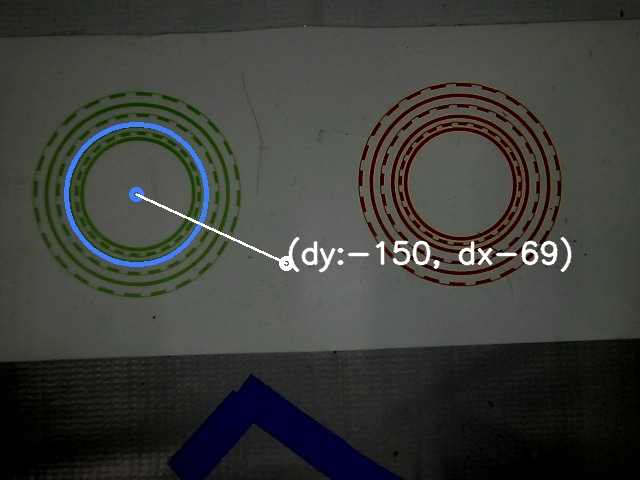
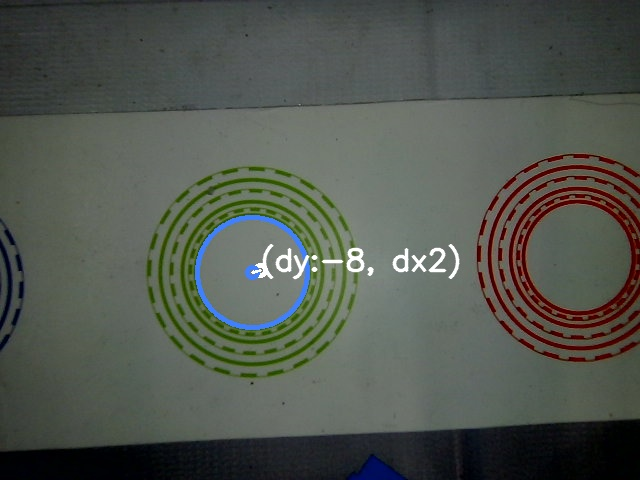
wt ok

diff --git a/app/tasks/Task3PutOnRing3.py b/app/tasks/Task3PutOnRing3.py
@@ -33,12 +33,12 @@ def Task3_PutOnRing3(cameraPath: str,
     from utils.VisionUtils import cv2AddChineseText
     img = cv2AddChineseText(blank, f"去粗加工区", (384, 200), (0, 0, 0), 45)
 
-    while True: # 等待到达三色环区
-        queue.put(img)
-        response = recv_data()
-        if response == xmlReadCommand("arrive", 0):
-            print("cjgq:", response)
-            break
+    # while True: # 等待到达三色环区
+    #     queue.put(img)
+    #     response = recv_data()
+    #     if response == xmlReadCommand("arrive", 0):
+    #         print("cjgq:", response)
+    #         break
 
     send_dataDMA(xmlReadCommand("prepareCatch", 1), 0, 0)
     import time
@@ -87,19 +87,23 @@ def Task3_PutOnRing3(cameraPath: str,
     # 底下那个靠近中间的是绿色色环，如果OPS9没出错
     f = 2
     while True:
-        # 先锁定中间那个圆环
-        ret, frame = cap.read()
-        if isflip:
-            frame = cv2.flip(frame, -1)
-        frame = useRateMWB(frame, RateTuple)
+        # ret, frame = cap.read()
+        # if isflip:
+        #     frame = cv2.flip(frame, -1)
+        # frame = useRateMWB(frame, RateTuple)
         n = 10
         circlesList = []
-        while n:
+        circles = []
+        while n > 0:
+            ret, frame = cap.read()
+            if isflip:
+                frame = cv2.flip(frame, -1)
             circles = getCircleCenter(frame) # 获取画面中的圆形
+            # centerCircle = ()
             if len(circles) != 0:
                 centerCircle = sorted(circles, key=lambda circle: # 离光心最近的圆形
                              pow(circle[0] - XCenter, 2) + pow(circle[1] - YCenter, 2))[0]
-            circlesList.append(tuple([centerCircle[0], centerCircle[1]]))
+                circlesList.append(tuple([centerCircle[0], centerCircle[1]]))
             n -= 1
         
         from utils.VisionUtils import getKmeansCenter
@@ -114,14 +118,14 @@ def Task3_PutOnRing3(cameraPath: str,
         cv2.line(frame, (x, y), (XCenter, YCenter), (255, 255, 255), 2)
         dy = x - XCenter
         dx = y - YCenter
-        if -5 < dx < 5:
-            dx = 0
-        if -5 < dy < 5:
-            dy = 0
+        # if -2 < dx < 2:
+        #     dx = 0
+        # if -2 < dy < 2:
+        #     dy = 0
         # 惯性修正
-        rate = 0.646
+        # rate = 0.646
         if f > 0:
-            dxr = int(distanceRate * dx * rate)
+            dxr = int(distanceRate * dx)
             dyr = int(distanceRate * dy)
             print("dy, dx:", dy, dx)
             cv2.putText(frame, f"(dy:{dy}, dx{dx})", (XCenter, YCenter), cv2.FONT_HERSHEY_SIMPLEX, 1, (255, 255, 255), 2, cv2.LINE_AA)
@@ -130,9 +134,9 @@ def Task3_PutOnRing3(cameraPath: str,
             cv2.imwrite(f"/home/jetson/GongXun2/app/debug/ring{f}_.jpg", frame)
             f -= 1
             time.sleep(2)
-        else:
-            send_dataDMA("0000", dx, dy)
-            queue.put(frame)
+        # else:
+        #     send_dataDMA("0000", dx, dy)
+        #     queue.put(frame)
         if f == 0:
             break
         # 待偏差归零，停止投送画面
@@ -141,19 +145,18 @@ def Task3_PutOnRing3(cameraPath: str,
         #     # send_dataDMA(xmlReadCommand("calibrOk", 1), 0, 0)
         #     queue.put(np.ones((480, 640, 3), np.uint8) * 255)
         #     break
-    else:
-        queue.put(frame)
+
 
     # 微调完等3s
-    time.sleep(2)
-    n = 10
-    while n > 0:
-        ret, frame = cap.read()
-        n -= 1
-    cv2.circle(frame, (XCenter, YCenter), 5, (0, 0, 0), 3)
-    queue.put(frame)
+    # time.sleep(2)
+    # n = 10
+    # while n > 0:
+    ret, frame_ = cap.read()
+        # n -= 1
+    cv2.circle(frame_, (XCenter, YCenter), 5, (0, 0, 0), 3)
+    queue.put(frame_)
     time.sleep(3)
-    cv2.imwrite("/home/jetson/GongXun2/app/debug/ring3.jpg", frame)
+    cv2.imwrite("/home/jetson/GongXun2/app/debug/ring3.jpg", frame_)
     cap.release()
 
 

diff --git a/app/main.py b/app/main.py
@@ -55,16 +55,16 @@ def process_task(queue: Queue, lock: Lock, continue_: Value):
     global camera1_path, camera2_path, qr_result, \
         sequence
 
-    # 执行任务一 扫码
-    from tasks.Task1QRCode import Task1_QRCode
-    Task1_QRCode(camera1_path, image_queue, sequence, qr_result, lock)
-    del Task1_QRCode
-    # sequence = [1, 2, 3, 1, 2, 3]
+    # # 执行任务一 扫码
+    # from tasks.Task1QRCode import Task1_QRCode
+    # Task1_QRCode(camera1_path, image_queue, sequence, qr_result, lock)
+    # del Task1_QRCode
+    sequence = [1, 2, 3, 1, 2, 3]
 
-    # 执行任务二 从圆盘取物块
-    from tasks.Task2GetFromPlate import Task2_GetFromPlate
-    Task2_GetFromPlate(camera2_path, image_queue, sequence, 1)
-    del Task2_GetFromPlate
+    # # 执行任务二 从圆盘取物块
+    # from tasks.Task2GetFromPlate import Task2_GetFromPlate
+    # Task2_GetFromPlate(camera2_path, image_queue, sequence, 1)
+    # del Task2_GetFromPlate
 
     # 执行任务三 在粗加工区放取物块
     from tasks.Task3PutOnRing3 import Task3_PutOnRing3
